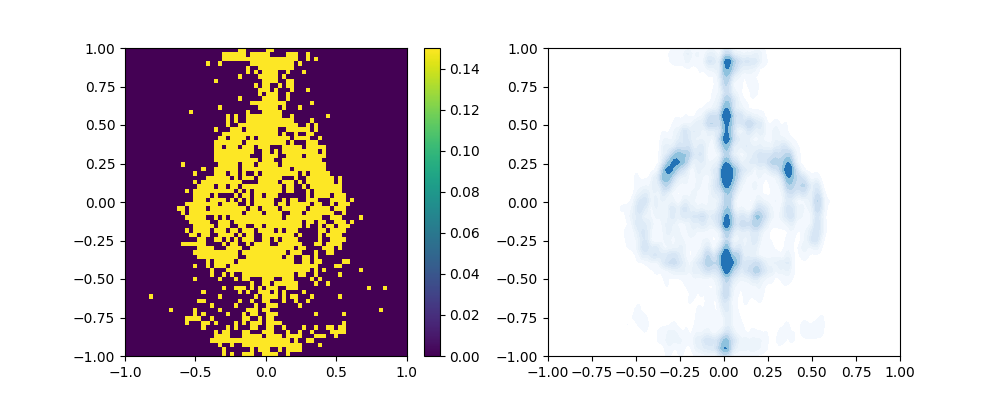
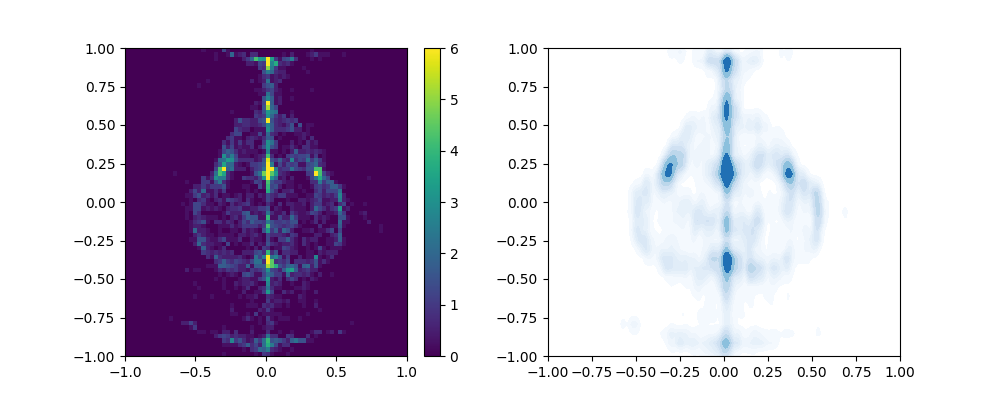
generic commit

diff --git a/scripts/transport/kvae_flow_alt.py b/scripts/transport/kvae_flow_alt.py
@@ -394,12 +394,12 @@ def cond_kernel_transport(X_mu, Y_mu, Y_eta, Y_mean, Y_var, X_mu_test, Y_eta_tes
                         'Y_var_test': Y_var_test, 'iters': iters, 'E_mmd_YY': E_mmd_yy, 'grad_cutoff': grad_cutoff}
 
     model = CondTransportKernel(transport_params)
-    model, loss_dict = train_kernel(model, n_iter = n_iter)
+    model, loss_dict = train_kernel(model)
     return model, loss_dict
 
 
 def comp_cond_kernel_transport(X_mu, Y_mu, Y_eta, Y_eta_test, X_mu_test, Y_mu_test, params,
-                               final_eps=1e-4, n_transports=50, reg_lambda=1e-4):
+                               final_eps=1e-5, n_transports=50, reg_lambda=1e-4):
     model_params = {'fit_kernel': [], 'Lambda_mean': [], 'X_mean': [], 'Lambda_var': [], 'X_var': []}
     iters = 0
     noise_shrink_c = np.exp(np.log(final_eps) / (n_transports - 1))
@@ -411,7 +411,7 @@ def comp_cond_kernel_transport(X_mu, Y_mu, Y_eta, Y_eta_test, X_mu_test, Y_mu_te
     approx = False
     mmd_lambda = 0
     E_mmd_yy = 0
-    grad_cutoff = .005
+    grad_cutoff = .001
 
     target_eps = 1
 
@@ -464,7 +464,7 @@ def zero_pad(array):
 
 
 def train_cond_transport(ref_gen, target_gen, params, N = 4000,  process_funcs=[],
-                         cond_model_trainer=cond_kernel_transport,final_eps=1e-4,
+                         cond_model_trainer=cond_kernel_transport,final_eps=1e-5,
                          idx_dict={}, reg_lambda=1e-6, n_transports=100):
     ref_sample = ref_gen(N)
     target_sample = target_gen(N)
@@ -516,7 +516,7 @@ def compositional_gen(trained_models, ref_sample, target_sample, idx_dict):
 
 def conditional_transport_exp(ref_gen, target_gen, N=4000, vmax=None, exp_name='exp', plt_range=None, bins=70,
                               process_funcs=[], N_plot=4000, cond_model_trainer=comp_cond_kernel_transport,
-                              final_eps=1e-4, skip_idx=0, plot_idx=[], n_transports=50, idx_dict={}):
+                              final_eps=1e-5, skip_idx=0, plot_idx=[], n_transports=50, idx_dict={}):
     save_dir = f'../../data/kernel_transport/{exp_name}'
     try:
         os.mkdir(save_dir)
@@ -579,7 +579,7 @@ def conditional_transport_exp(ref_gen, target_gen, N=4000, vmax=None, exp_name='
 
 def two_d_exp(ref_gen, target_gen, N=4000, plt_range=None, process_funcs=[],
               slice_range=None, N_plot=4000, slice_vals=[], bins=70, exp_name='exp', skip_idx=0,
-              vmax=None, n_transports=70, reg_lambda=1e-5, final_eps=1e-4):
+              vmax=None, n_transports=70, reg_lambda=1e-5, final_eps=1e-5):
     save_dir = f'../../data/kernel_transport/{exp_name}'
     try:
         os.mkdir(save_dir)
@@ -739,7 +739,7 @@ def vl_exp(N=4000, Yd=18, normal=True, exp_name='kvl_exp', n_transports=100,  N_
 
 def run():
     #elden_exp(N=4000, exp_name='elden_exp_2', n_transports=150)
-    two_d_exp(ref_gen=sample_normal, target_gen=sample_elden_ring, N=5000, exp_name='elden_exp_alt3', n_transports = 150,
+    two_d_exp(ref_gen=sample_normal, target_gen=sample_elden_ring, N=5000, exp_name='elden_exp_alt3', n_transports = 200,
               slice_vals = [], plt_range = [[-1,1],[-1,1]], slice_range = [-1,1], vmax=6, skip_idx=1, N_plot = 5000)
 
 
